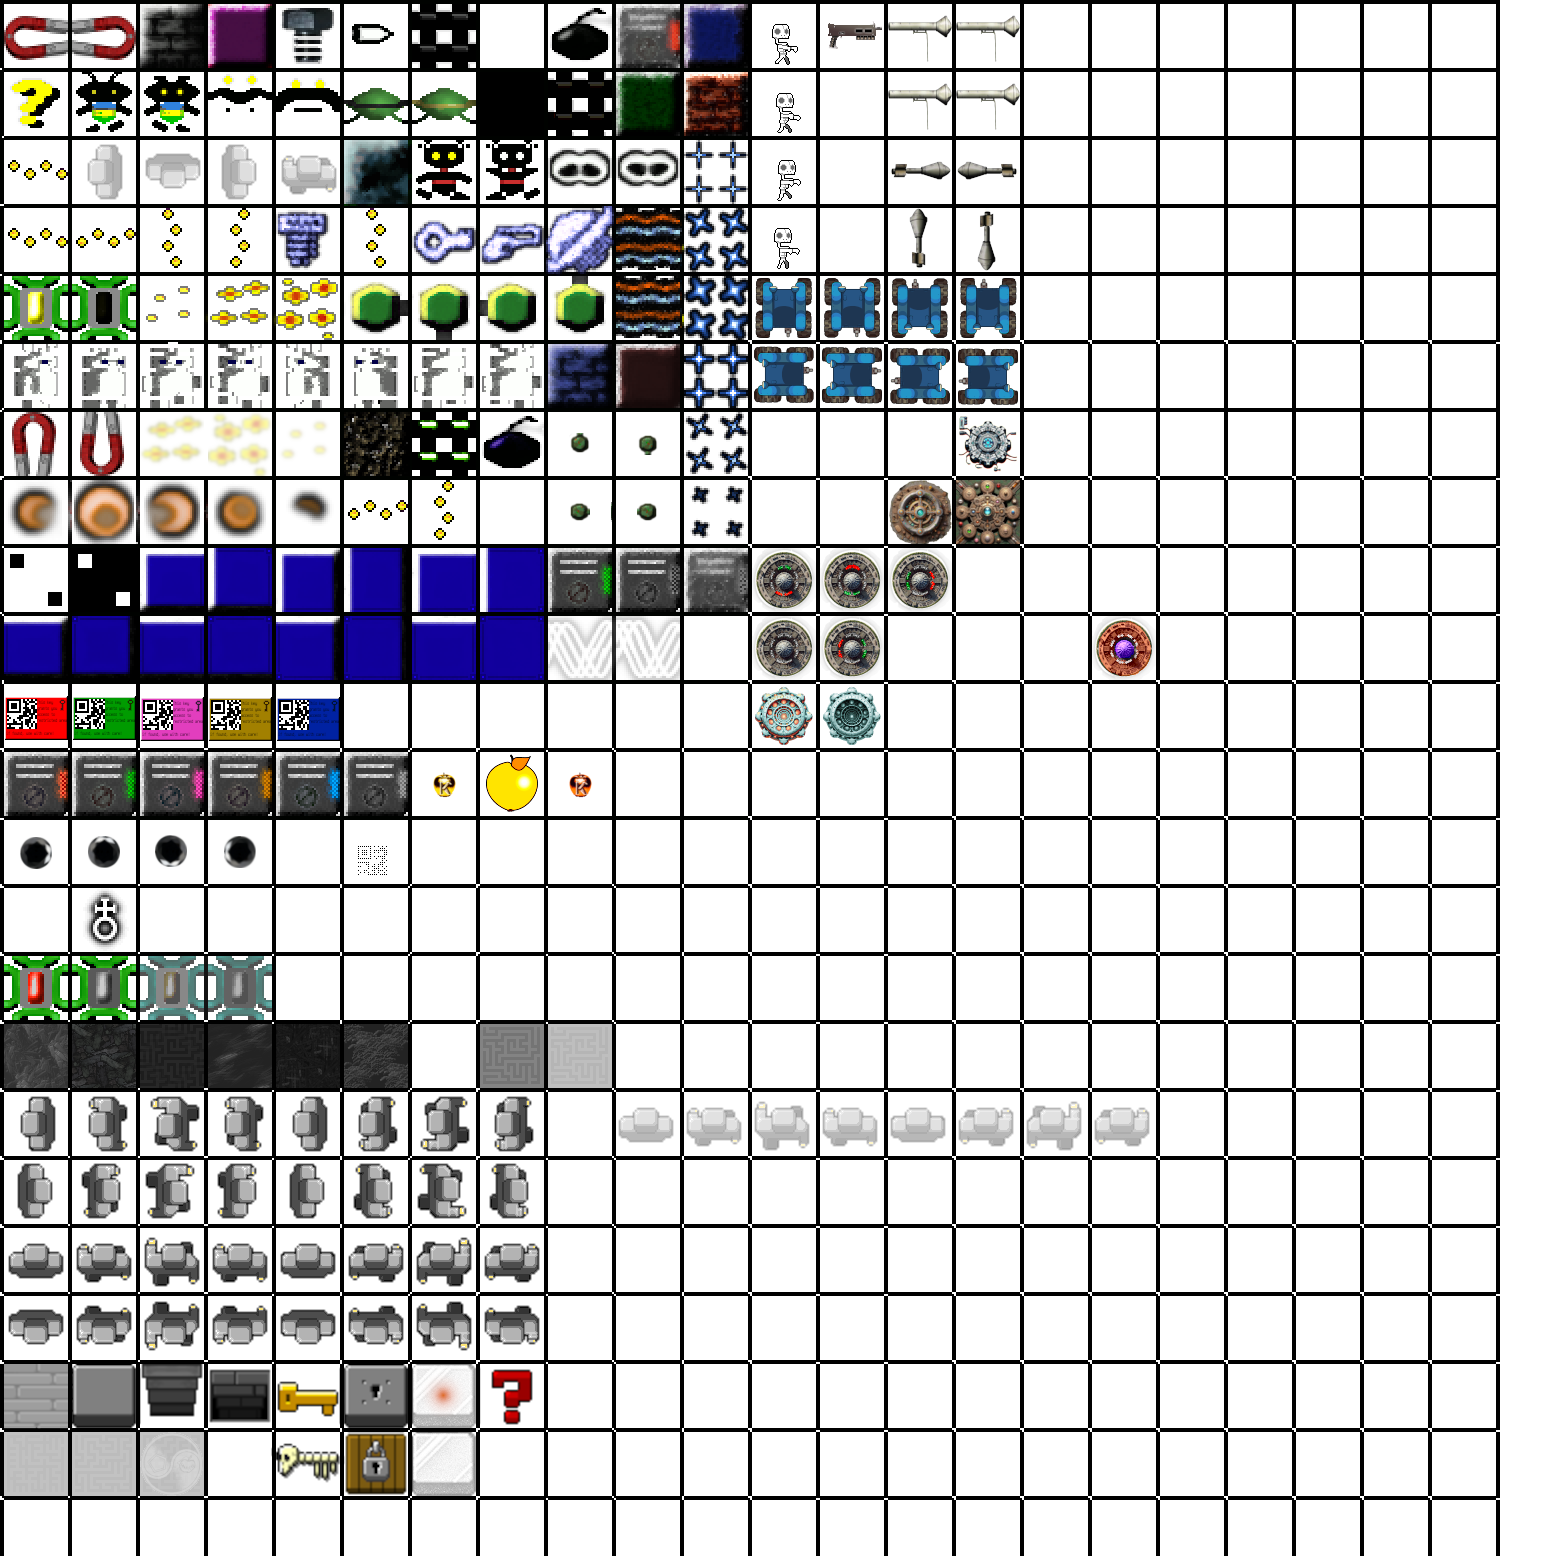
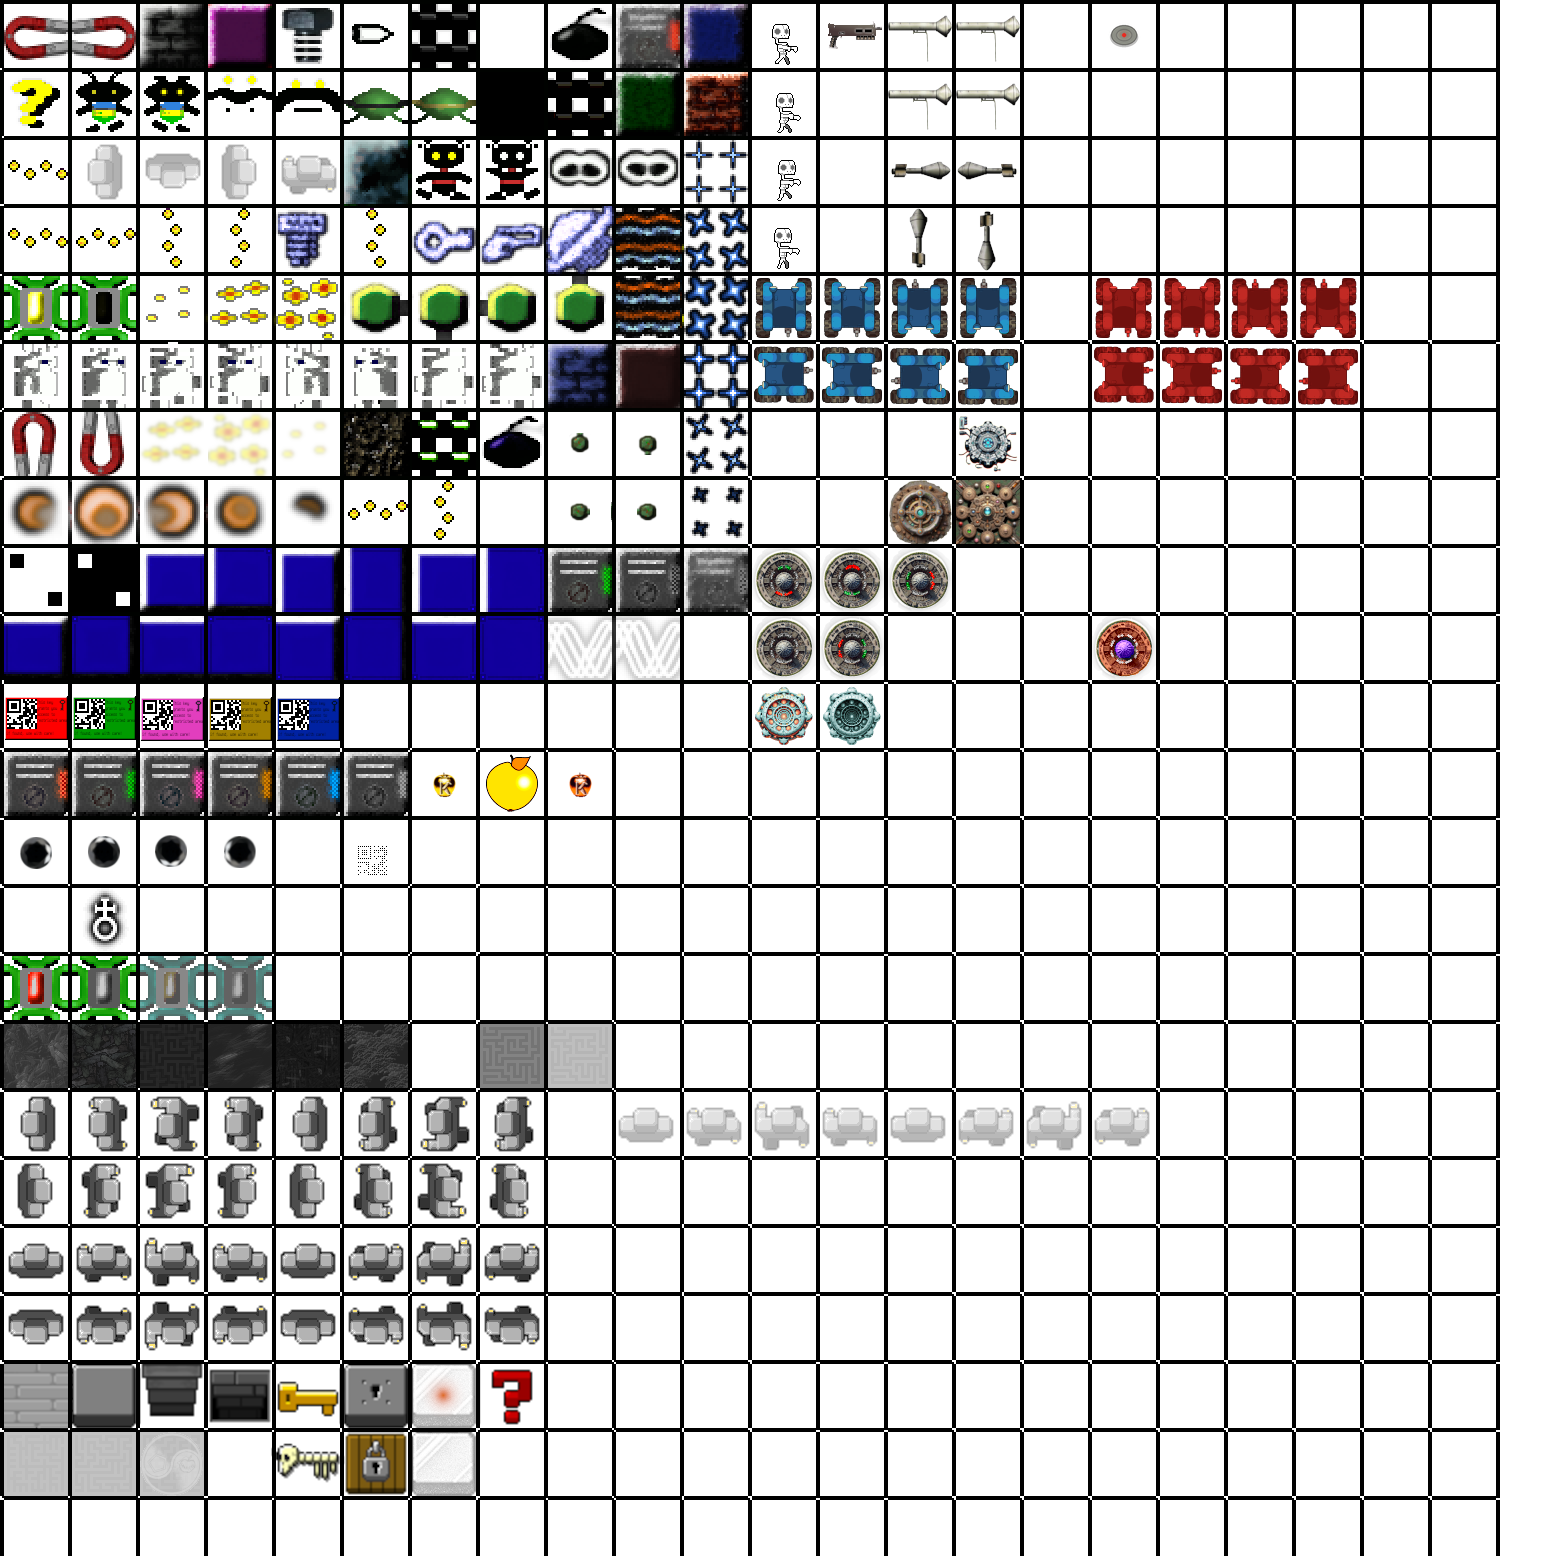
Give the landmine and the Hound their own tiles
- icons64.png: a landmine tile at (16,0), a small half-transparent
  disc with a red light that the floor shows through, and red copies
  of the drone's eight frames at (16..19, 4..5) for the Hound.
- skins.json: the landmine uses its new tile, the drone gets a second
  animation set for subtype 1, and subtype 1 reuses the drone sounds.
- the Hound spawns as drone subtype 1 so it is drawn red.

Claude-Session: https://claude.ai/code/session_0163PNukkDsU9eXiuUTgv2cv

Changed region(s): [[0.6787, 0.1542, 0.8946, 0.2776], [0.7095, 0.0, 0.7404, 0.0308]]

diff --git a/src/puppetMasterHound.cpp b/src/puppetMasterHound.cpp
@@ -93,7 +93,8 @@ std::shared_ptr<bElem> puppetMasterHound::release(const std::shared_ptr<bElem> &
         auto cell = board->getElement(c);
         if (!cell || !cell->getAttrs()->isSteppable() || cell->getType() != bElemTypes::_floorType)
             continue;
-        auto drone = elementFactory::generateAnElement<patrollingDrone>(board, 0);
+        // subtype 1 is the red hound look in the skin
+        auto drone = elementFactory::generateAnElement<patrollingDrone>(board, 1);
         drone->stepOnElement(cell);
         auto brain = std::static_pointer_cast<puppetMasterHound>(puppetMasterFR::create(board, puppetMasterFR::hound));
         brain->home = difficulty::areaOf(p);

diff --git a/unitTests/difficulty-test.cpp b/unitTests/difficulty-test.cpp
@@ -180,6 +180,7 @@ TEST(DifficultyTests, HoundComesForACampingPlayerAndGivesUpWhenTheyLeave)
     auto hounds = houndsIn(mc);
     ASSERT_EQ(hounds.size(), 1u);
     auto hound = hounds.front();
+    EXPECT_EQ(hound->getAttrs()->getSubtype(), 1); // the red hound look in the skin
 
     // it hunts the player down and bites
     const int energy = plr->getAttrs()->getEnergy();
